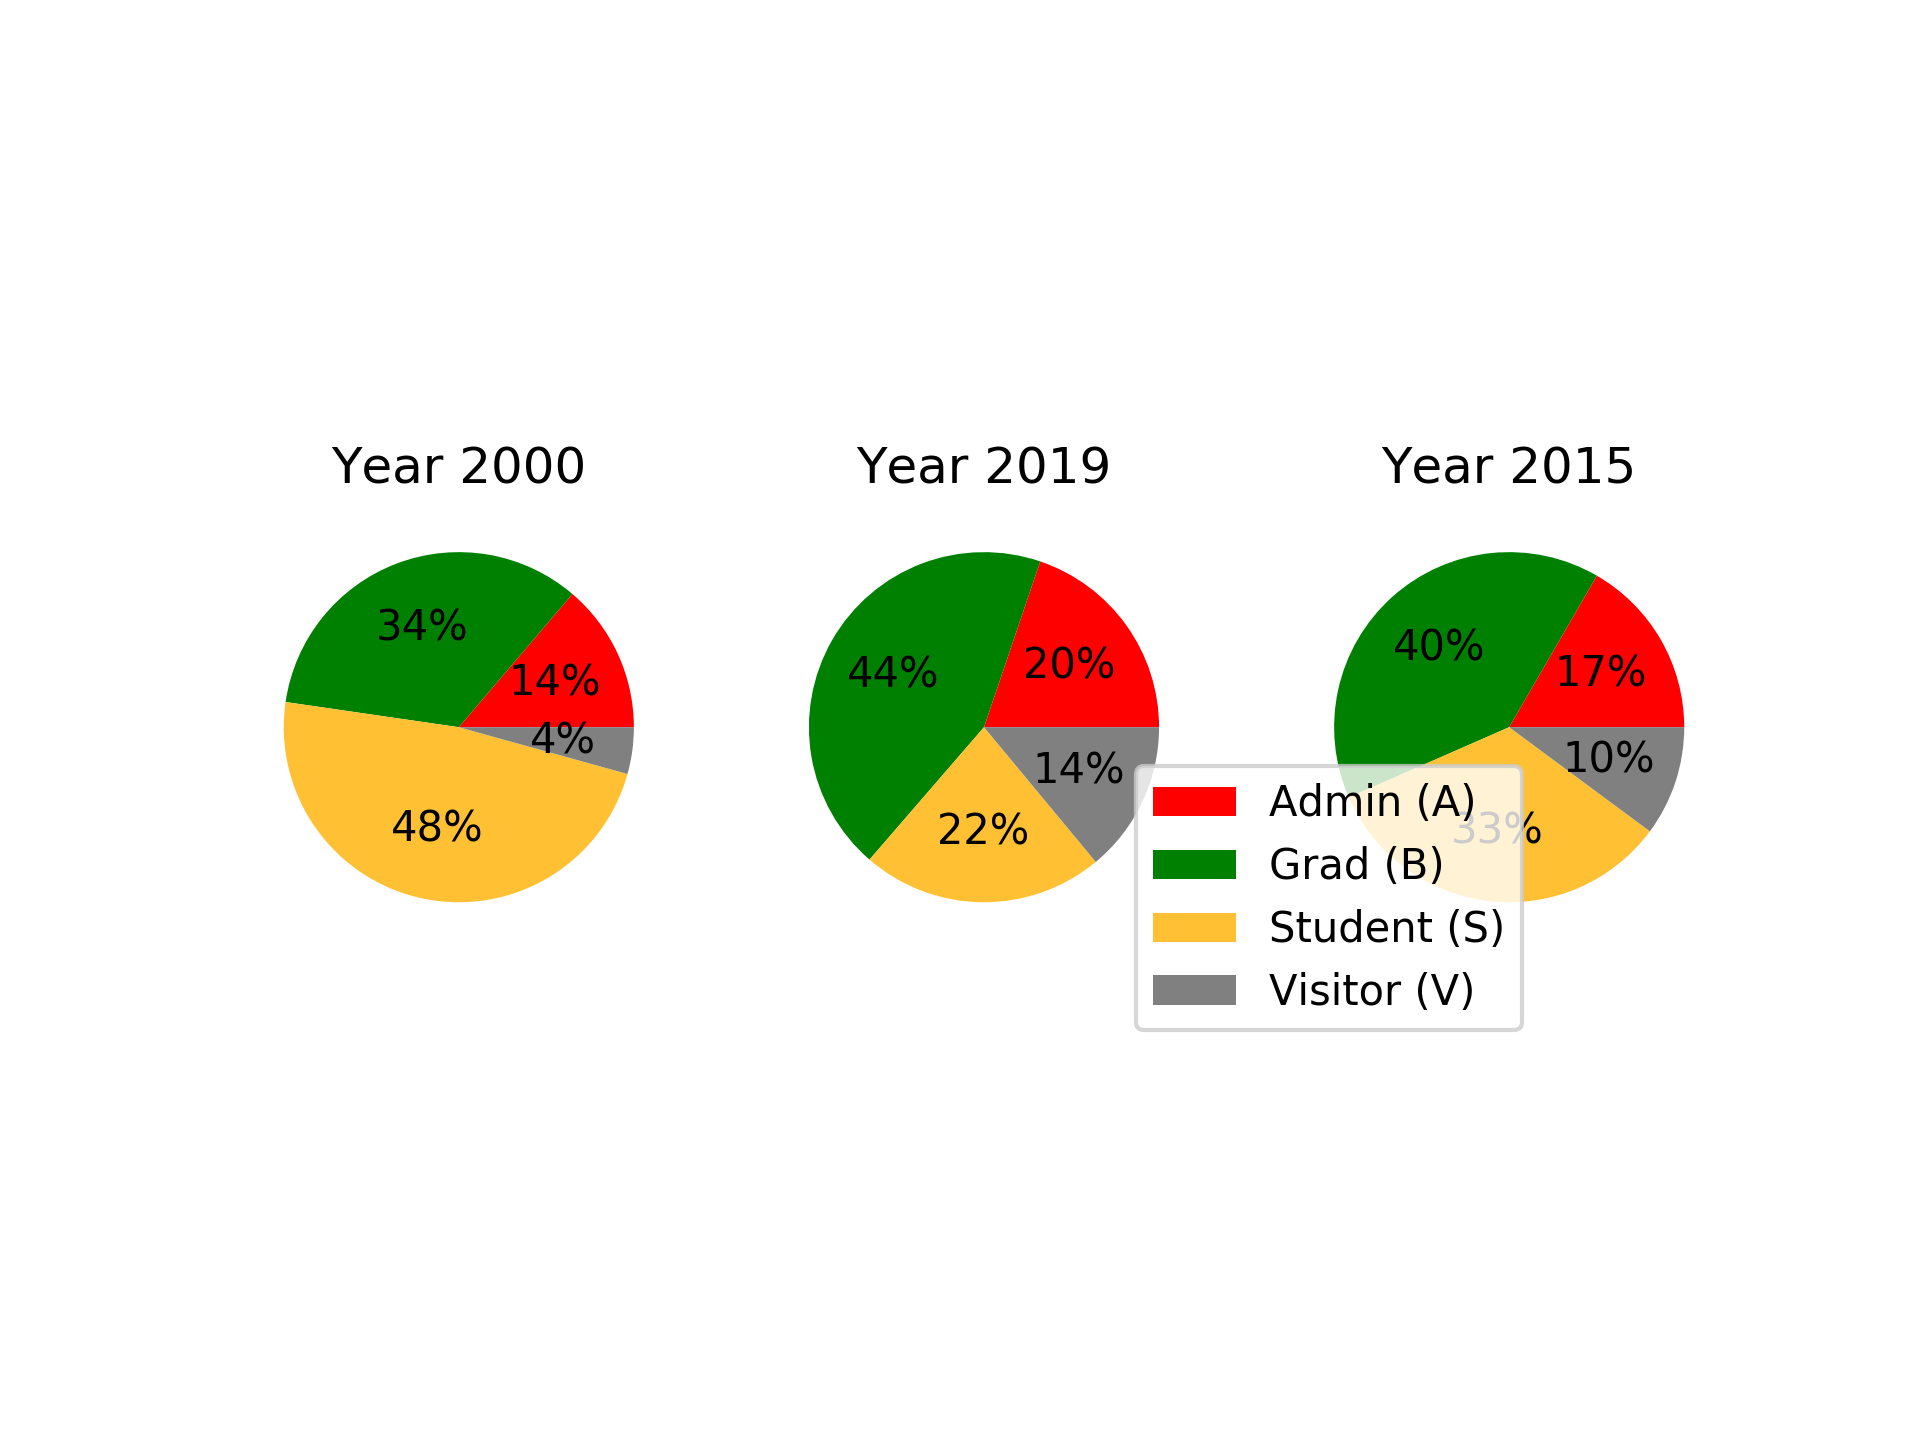
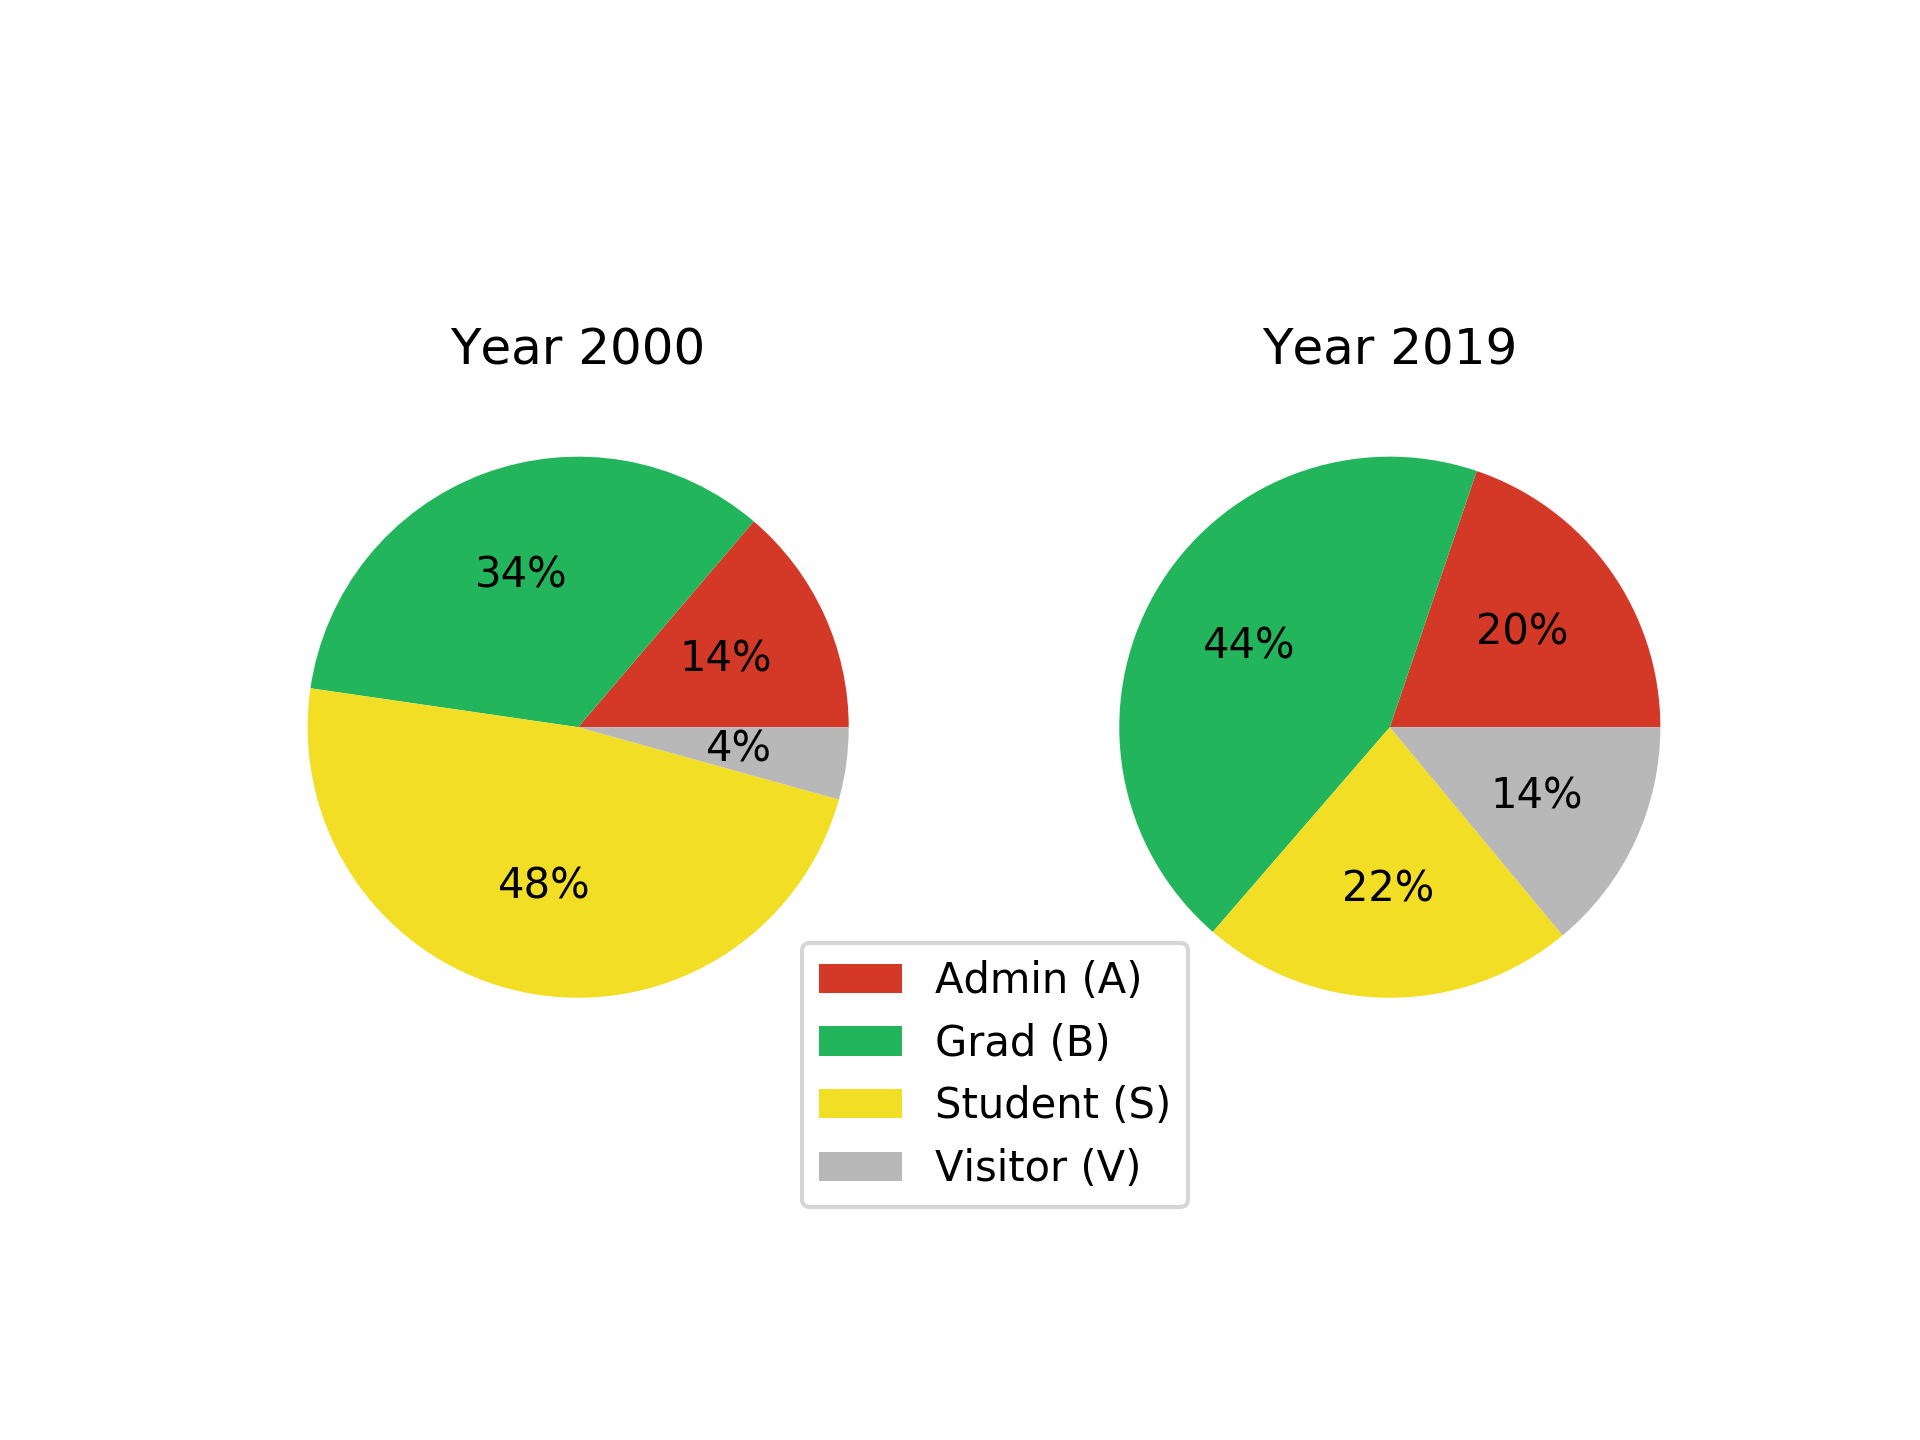
fixed colors for pie charts

diff --git a/codes/historical_peaks.py b/codes/historical_peaks.py
@@ -9,21 +9,15 @@ from xcel_to_df import xcel_to_df
 def main():
 
     dist_2000 = get_spot_distribution(2000)
-    dist_2015 = get_spot_distribution(2015)
     dist_2019 = get_spot_distribution(2019)
 
-    plt.subplot(1, 3, 1)
-    plt.pie(dist_2000, autopct='%1.0f%%', colors=['red', 'green', '#FFC133', 'gray'])
+    plt.subplot(1, 2, 1)
+    plt.pie(dist_2000, autopct='%1.0f%%', colors=['#d43928', '#22b55b', '#f2de24', '#b8b8b8'])
     plt.title('Year 2000')
 
-    plt.subplot(1, 3, 2)
-    plt.pie(dist_2019, autopct='%1.0f%%',  colors=['red', 'green', '#FFC133', 'gray'])
+    plt.subplot(1, 2, 2)
+    plt.pie(dist_2019, autopct='%1.0f%%', colors=['#d43928', '#22b55b', '#f2de24', '#b8b8b8'])
     plt.title('Year 2019')
-
-    plt.subplot(1, 3, 3)
-    plt.pie(dist_2015, autopct='%1.0f%%',  colors=['red', 'green', '#FFC133', 'gray'])
-    plt.title('Year 2015')
-
 
     plt.legend(['Admin (A)', 'Grad (B)', 'Student (S)', 'Visitor (V)'], loc = 'lower left', bbox_to_anchor=(-0.4, -.24, 0.5, 0.5))
     plt.savefig('../images/Spot Distributions', dpi=300)
